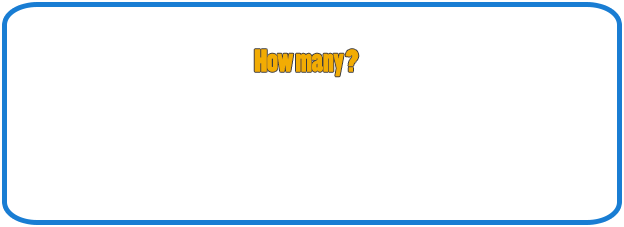
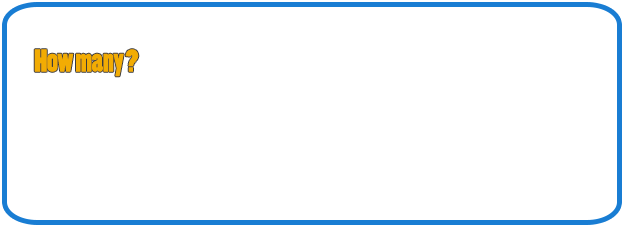
display q1 properly

Changed region(s): [[0.0304, 0.2159, 0.2436, 0.3392], [0.3958, 0.2159, 0.5785, 0.3392]]

diff --git a/src/game1.js b/src/game1.js
@@ -24,6 +24,8 @@ var platforms = []
 var recordingImg
 
 var answers = []
+var questions = []
+var q1, q2, q3
 
 // game 2
 var wheel
@@ -35,7 +37,7 @@ Game1 = {
     initQuestion()
     // wave first
     wave = spawn(0, wave_y, "wave")
-  
+
     // normal
     platform_normal = spawn(platform_normal_x, platform_normal_y, "platform_normal")
     spawn(platform_normal_x + 70, platform_normal_y - 30, "star")
@@ -59,8 +61,10 @@ Game1 = {
     recordingImg.attr({ alpha: 0.0 })
     platforms = [platform_normal, platform_floating, platform_high, platform_wide]
 
-    spawn (100, 100, "q1")
-    spawn ()
+    spawn(180, 50, "q1")
+    for (i = 0; i < answers[0]; i++) {
+      spawn(210 + i * 30, 150, "star"+i)
+    }
   },
 
   showNumber: function (index) {
@@ -141,9 +145,9 @@ function getRandomInt(min, max) { return Math.floor(Math.random() * (max - min +
 
 function initQuestion() {
   for (var i = 0; i < 3; i++) {
-    answers[0] = getRandomInt (1,9)
-    answers[1] = getRandomInt (1,9)
-    answers[3] = getRandomInt (1,9)
+    answers[0] = getRandomInt(1, 9)
+    answers[1] = getRandomInt(1, 9)
+    answers[3] = getRandomInt(1, 9)
   }
 }
 
